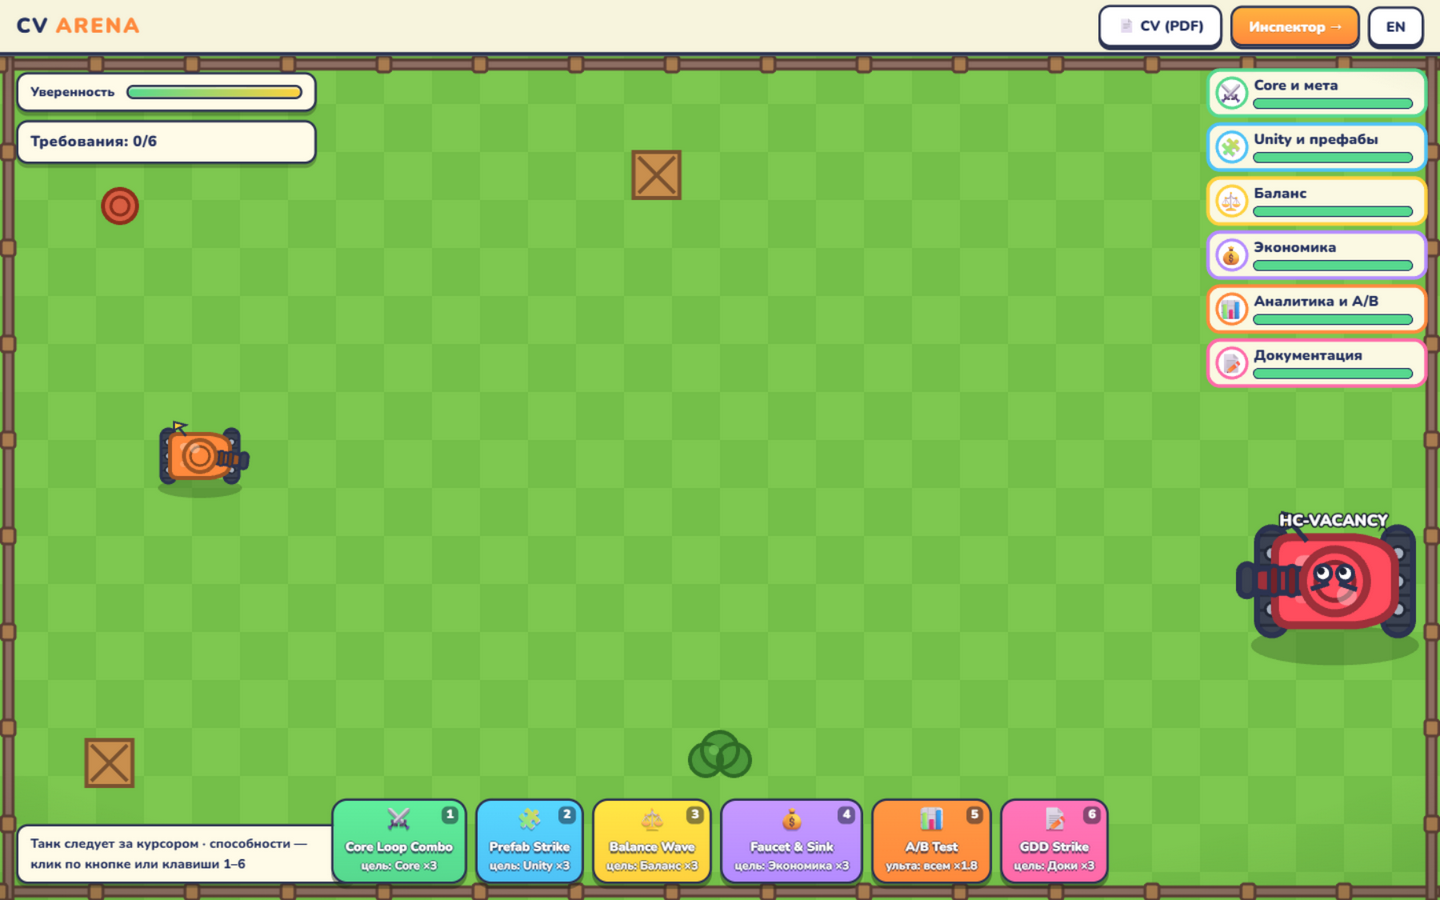
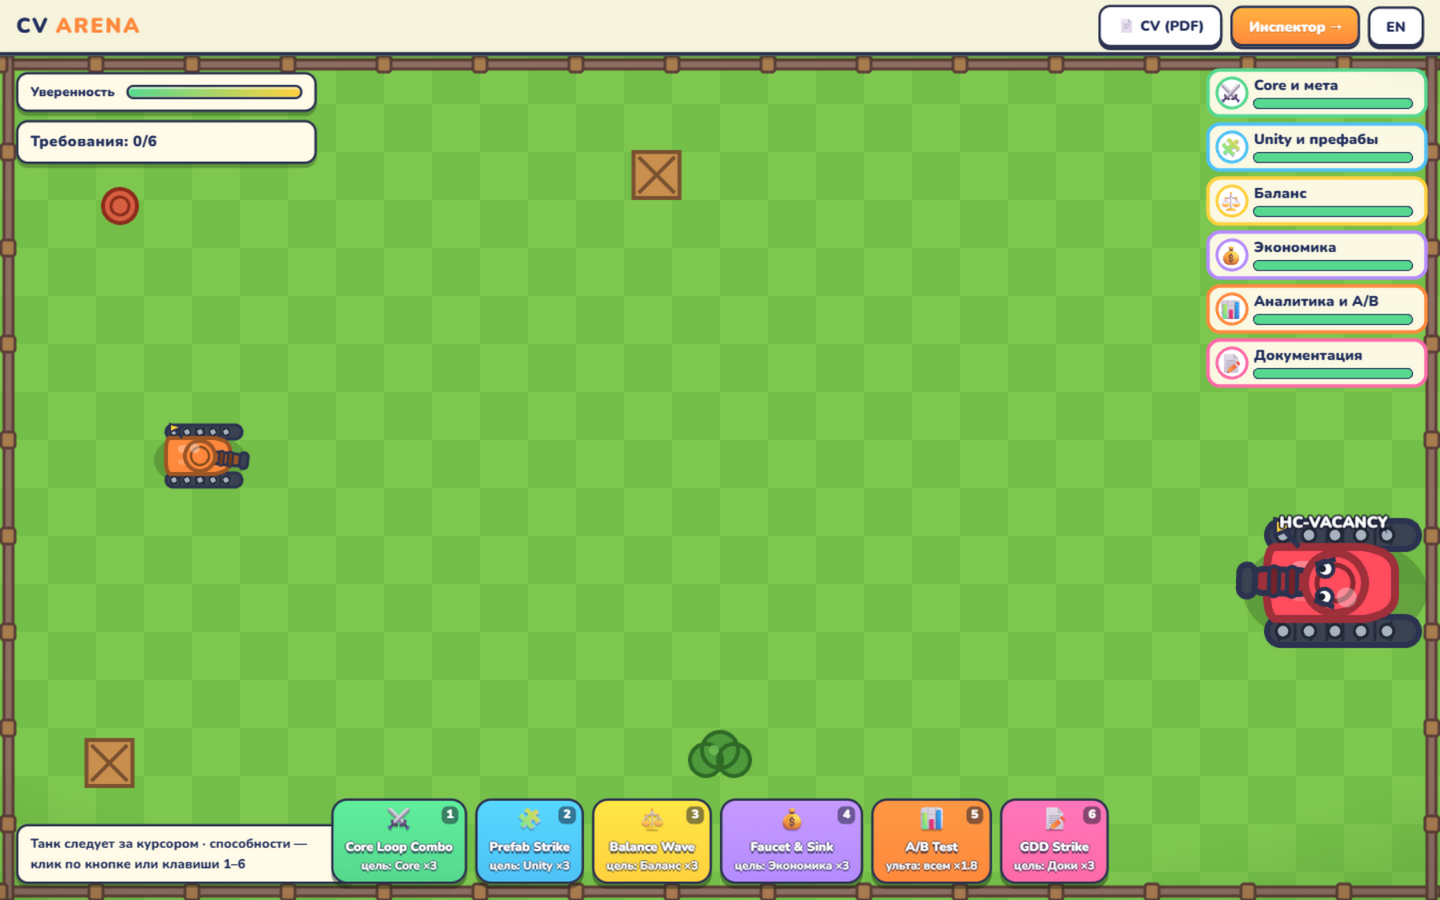
развернул гусеницы вдоль корпуса и сориентировал морду босса по стволу

Changed region(s): [[0.8438, 0.56, 1.0, 0.7467], [0.0938, 0.4667, 0.1875, 0.56]]

diff --git a/js/game.js b/js/game.js
@@ -18,51 +18,52 @@ function shade(hex, f = 0.62) {
   return (r << 16) | (g << 8) | b;
 }
 
-// мультяшный танк в духе Tanks A Lot: клиновидный нос, катки в ленте,
-// купол с кольцом, гофра ствола, флажок — и сердитая морда у босса
+// мультяшный танк в духе Tanks A Lot: едет вправо — гусеницы лентами сверху и снизу,
+// клиновидный нос, купол с кольцом, гофра ствола, флажок; у босса морда смотрит по стволу
 export function makeTank(color, scale = 1, opts = {}) {
   const c = new Container();
   const dark = shade(color, 0.62);
   const darker = shade(color, 0.45);
 
   const shadow = new Graphics();
-  shadow.ellipse(0, 32, 42, 10).fill({ color: 0x1e3a12, alpha: 0.28 });
+  shadow.ellipse(0, 4, 46, 28).fill({ color: 0x1e3a12, alpha: 0.26 });
   c.addChild(shadow);
 
-  // гусеницы: скруглённая лента с поперечными сегментами и катками
-  const mkTread = (x) => {
+  // гусеницы: две ленты вдоль движения, сверху и снизу корпуса
+  const mkTread = (y) => {
     const t = new Graphics();
-    t.roundRect(x, -27, 15, 54, 7.5).fill({ color: 0x3b4252 }).stroke({ width: 3, color: OUTLINE });
-    for (let wy = -23; wy <= 23; wy += 7.5) {
-      t.moveTo(x + 1.5, wy).lineTo(x + 13.5, wy).stroke({ width: 1.5, color: 0x222836, alpha: 0.8 });
+    t.roundRect(-34, y, 76, 14, 7).fill({ color: 0x3b4252 }).stroke({ width: 3, color: OUTLINE });
+    for (let wx = -28; wx <= 28; wx += 8) {
+      t.moveTo(wx, y + 2).lineTo(wx, y + 12).stroke({ width: 1.5, color: 0x222836, alpha: 0.8 });
     }
-    for (let wy = -14; wy <= 14; wy += 14) {
-      t.circle(x + 7.5, wy, 3.4).fill({ color: 0xa8b2c1 }).stroke({ width: 1.5, color: 0x222836 });
+    for (let wx = -26; wx <= 26; wx += 13) {
+      t.circle(wx, y + 7, 3.4).fill({ color: 0xa8b2c1 }).stroke({ width: 1.5, color: 0x222836 });
     }
     return t;
   };
-  c.addChild(mkTread(-39), mkTread(24));
+  c.addChild(mkTread(-31), mkTread(17));
 
-  // корпус: тракторный нос-клин (спереди уже), задняя часть шире
+  // корпус: клин-нос вправо, между лентами
   const body = new Graphics();
-  body.moveTo(-30, -14);
-  body.quadraticCurveTo(-30, -22, -22, -22);
-  body.lineTo(10, -22);
-  body.quadraticCurveTo(30, -20, 30, -8);
-  body.lineTo(30, 8);
-  body.quadraticCurveTo(30, 20, 10, 22);
-  body.lineTo(-22, 22);
-  body.quadraticCurveTo(-30, 22, -30, 14);
+  body.moveTo(-30, -18);
+  body.lineTo(14, -18);
+  body.quadraticCurveTo(30, -16, 30, -6);
+  body.lineTo(30, 6);
+  body.quadraticCurveTo(30, 16, 14, 18);
+  body.lineTo(-30, 18);
+  body.quadraticCurveTo(-34, 16, -34, 6);
+  body.lineTo(-34, -6);
+  body.quadraticCurveTo(-34, -18, -30, -18);
   body.closePath();
   body.fill({ color }).stroke({ width: 4, color: dark });
-  body.roundRect(-20, -13, 24, 8, 4).fill({ color: 0xffffff, alpha: 0.32 });
-  body.roundRect(-20, 5, 16, 6, 3).fill({ color: 0xffffff, alpha: 0.18 });
+  body.roundRect(-22, -11, 26, 8, 4).fill({ color: 0xffffff, alpha: 0.32 });
+  body.roundRect(-22, 3, 18, 6, 3).fill({ color: 0xffffff, alpha: 0.18 });
   c.addChild(body);
 
-  // флажок на антенне — как у новичка в Tanks A Lot
+  // флажок на антенне сзади — как у новичка в Tanks A Lot
   const flag = new Graphics();
-  flag.moveTo(-14, -20).lineTo(-26, -34).stroke({ width: 2.5, color: OUTLINE });
-  flag.moveTo(-26, -34).lineTo(-14, -31).lineTo(-26, -26).closePath()
+  flag.moveTo(-18, -18).lineTo(-30, -32).stroke({ width: 2.5, color: OUTLINE });
+  flag.moveTo(-30, -32).lineTo(-18, -29).lineTo(-30, -24).closePath()
     .fill({ color: 0xffd23f }).stroke({ width: 2, color: OUTLINE });
   c.addChild(flag);
 
@@ -75,17 +76,18 @@ export function makeTank(color, scale = 1, opts = {}) {
   barrel.roundRect(40, -8, 8, 16, 4).fill({ color: 0x3b4252 }).stroke({ width: 3, color: OUTLINE });
   turret.addChild(barrel);
   const dome = new Graphics();
-  dome.circle(0, 0, 16).fill({ color }).stroke({ width: 4, color: dark });
-  dome.circle(0, 0, 9.5).stroke({ width: 2.5, color: darker, alpha: 0.85 });
+  dome.circle(0, 0, 15).fill({ color }).stroke({ width: 4, color: dark });
+  dome.circle(0, 0, 9).stroke({ width: 2.5, color: darker, alpha: 0.85 });
   dome.circle(-6, -7, 5).fill({ color: 0xffffff, alpha: 0.35 });
   turret.addChild(dome);
   if (opts.eyes) {
+    // морда сориентирована по стволу: «вперёд» = +x, глаза разнесены поперёк
     const face = new Graphics();
-    face.circle(-5, 4, 4).fill({ color: 0xffffff }).stroke({ width: 2, color: OUTLINE });
-    face.circle(6, 4, 4).fill({ color: 0xffffff }).stroke({ width: 2, color: OUTLINE });
-    face.circle(-4, 5, 1.8).fill({ color: 0x1d2333 });
-    face.circle(7, 5, 1.8).fill({ color: 0x1d2333 });
-    face.moveTo(-11, -4).lineTo(-2, -1).moveTo(12, -4).lineTo(3, -1).stroke({ width: 2.5, color: OUTLINE });
+    face.circle(5, -7, 4).fill({ color: 0xffffff }).stroke({ width: 2, color: OUTLINE });
+    face.circle(5, 7, 4).fill({ color: 0xffffff }).stroke({ width: 2, color: OUTLINE });
+    face.circle(6.5, -7, 1.8).fill({ color: 0x1d2333 });
+    face.circle(6.5, 7, 1.8).fill({ color: 0x1d2333 });
+    face.moveTo(0, -12).lineTo(10, -9).moveTo(0, 12).lineTo(10, 9).stroke({ width: 2.5, color: OUTLINE });
     turret.addChild(face);
   }
   c.addChild(turret);

diff --git a/js/preview.js b/js/preview.js
@@ -17,18 +17,18 @@ export async function createTankPreview(el, color) {
   el.appendChild(app.canvas);
 
   const pad = new Graphics();
-  pad.roundRect(46, 102, 208, 58, 16).fill({ color: 0x74bf49 }).stroke({ width: 5, color: 0x5d4037 });
-  pad.roundRect(54, 110, 192, 10, 5).fill({ color: 0x6fbf56 });
+  pad.roundRect(42, 104, 216, 56, 16).fill({ color: 0x74bf49 }).stroke({ width: 5, color: 0x5d4037 });
+  pad.roundRect(50, 112, 200, 10, 5).fill({ color: 0x6fbf56 });
   app.stage.addChild(pad);
 
-  const tank = makeTank(color, 1.5);
-  tank.position.set(146, 90);
+  const tank = makeTank(color, 1.4);
+  tank.position.set(140, 84);
   app.stage.addChild(tank);
 
   let t = 0;
   app.ticker.add((tk) => {
     t += tk.deltaMS / 1000;
-    tank.y = 90 + Math.sin(t * 2) * 3;
+    tank.y = 84 + Math.sin(t * 2) * 3;
     tank.turret.rotation = -0.08 + Math.sin(t * 0.7) * 0.06;
   });
 }
